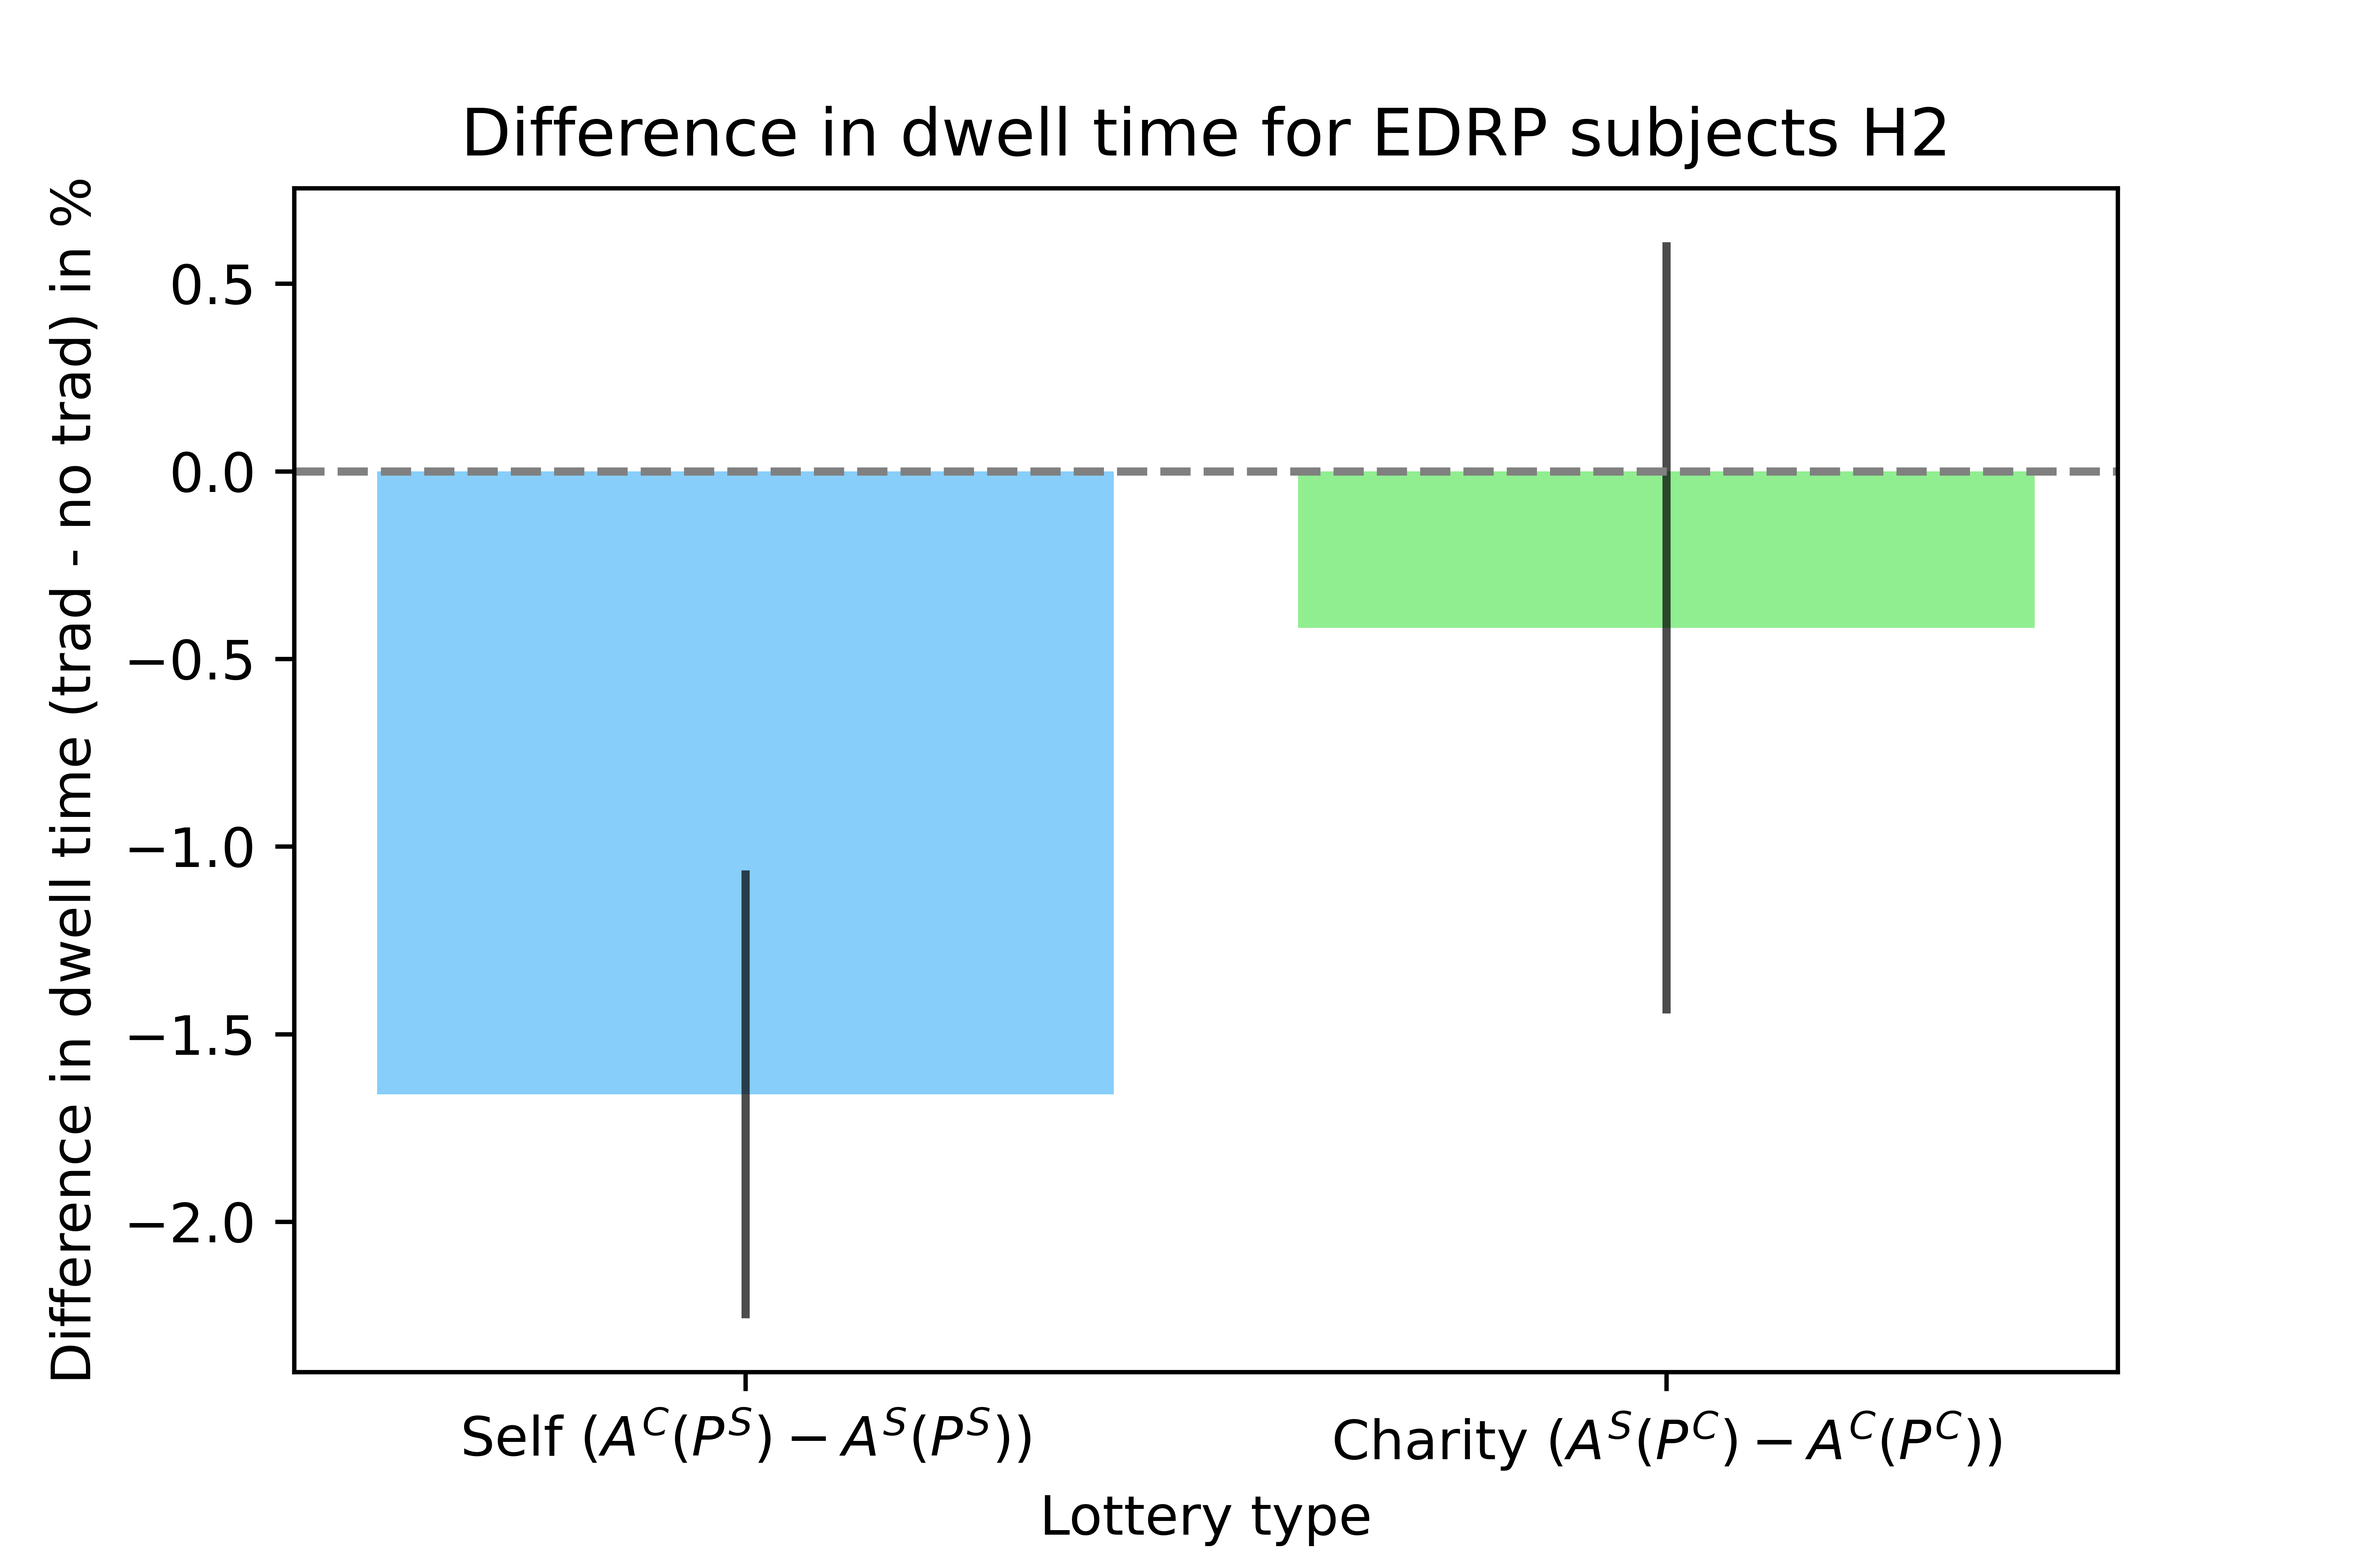
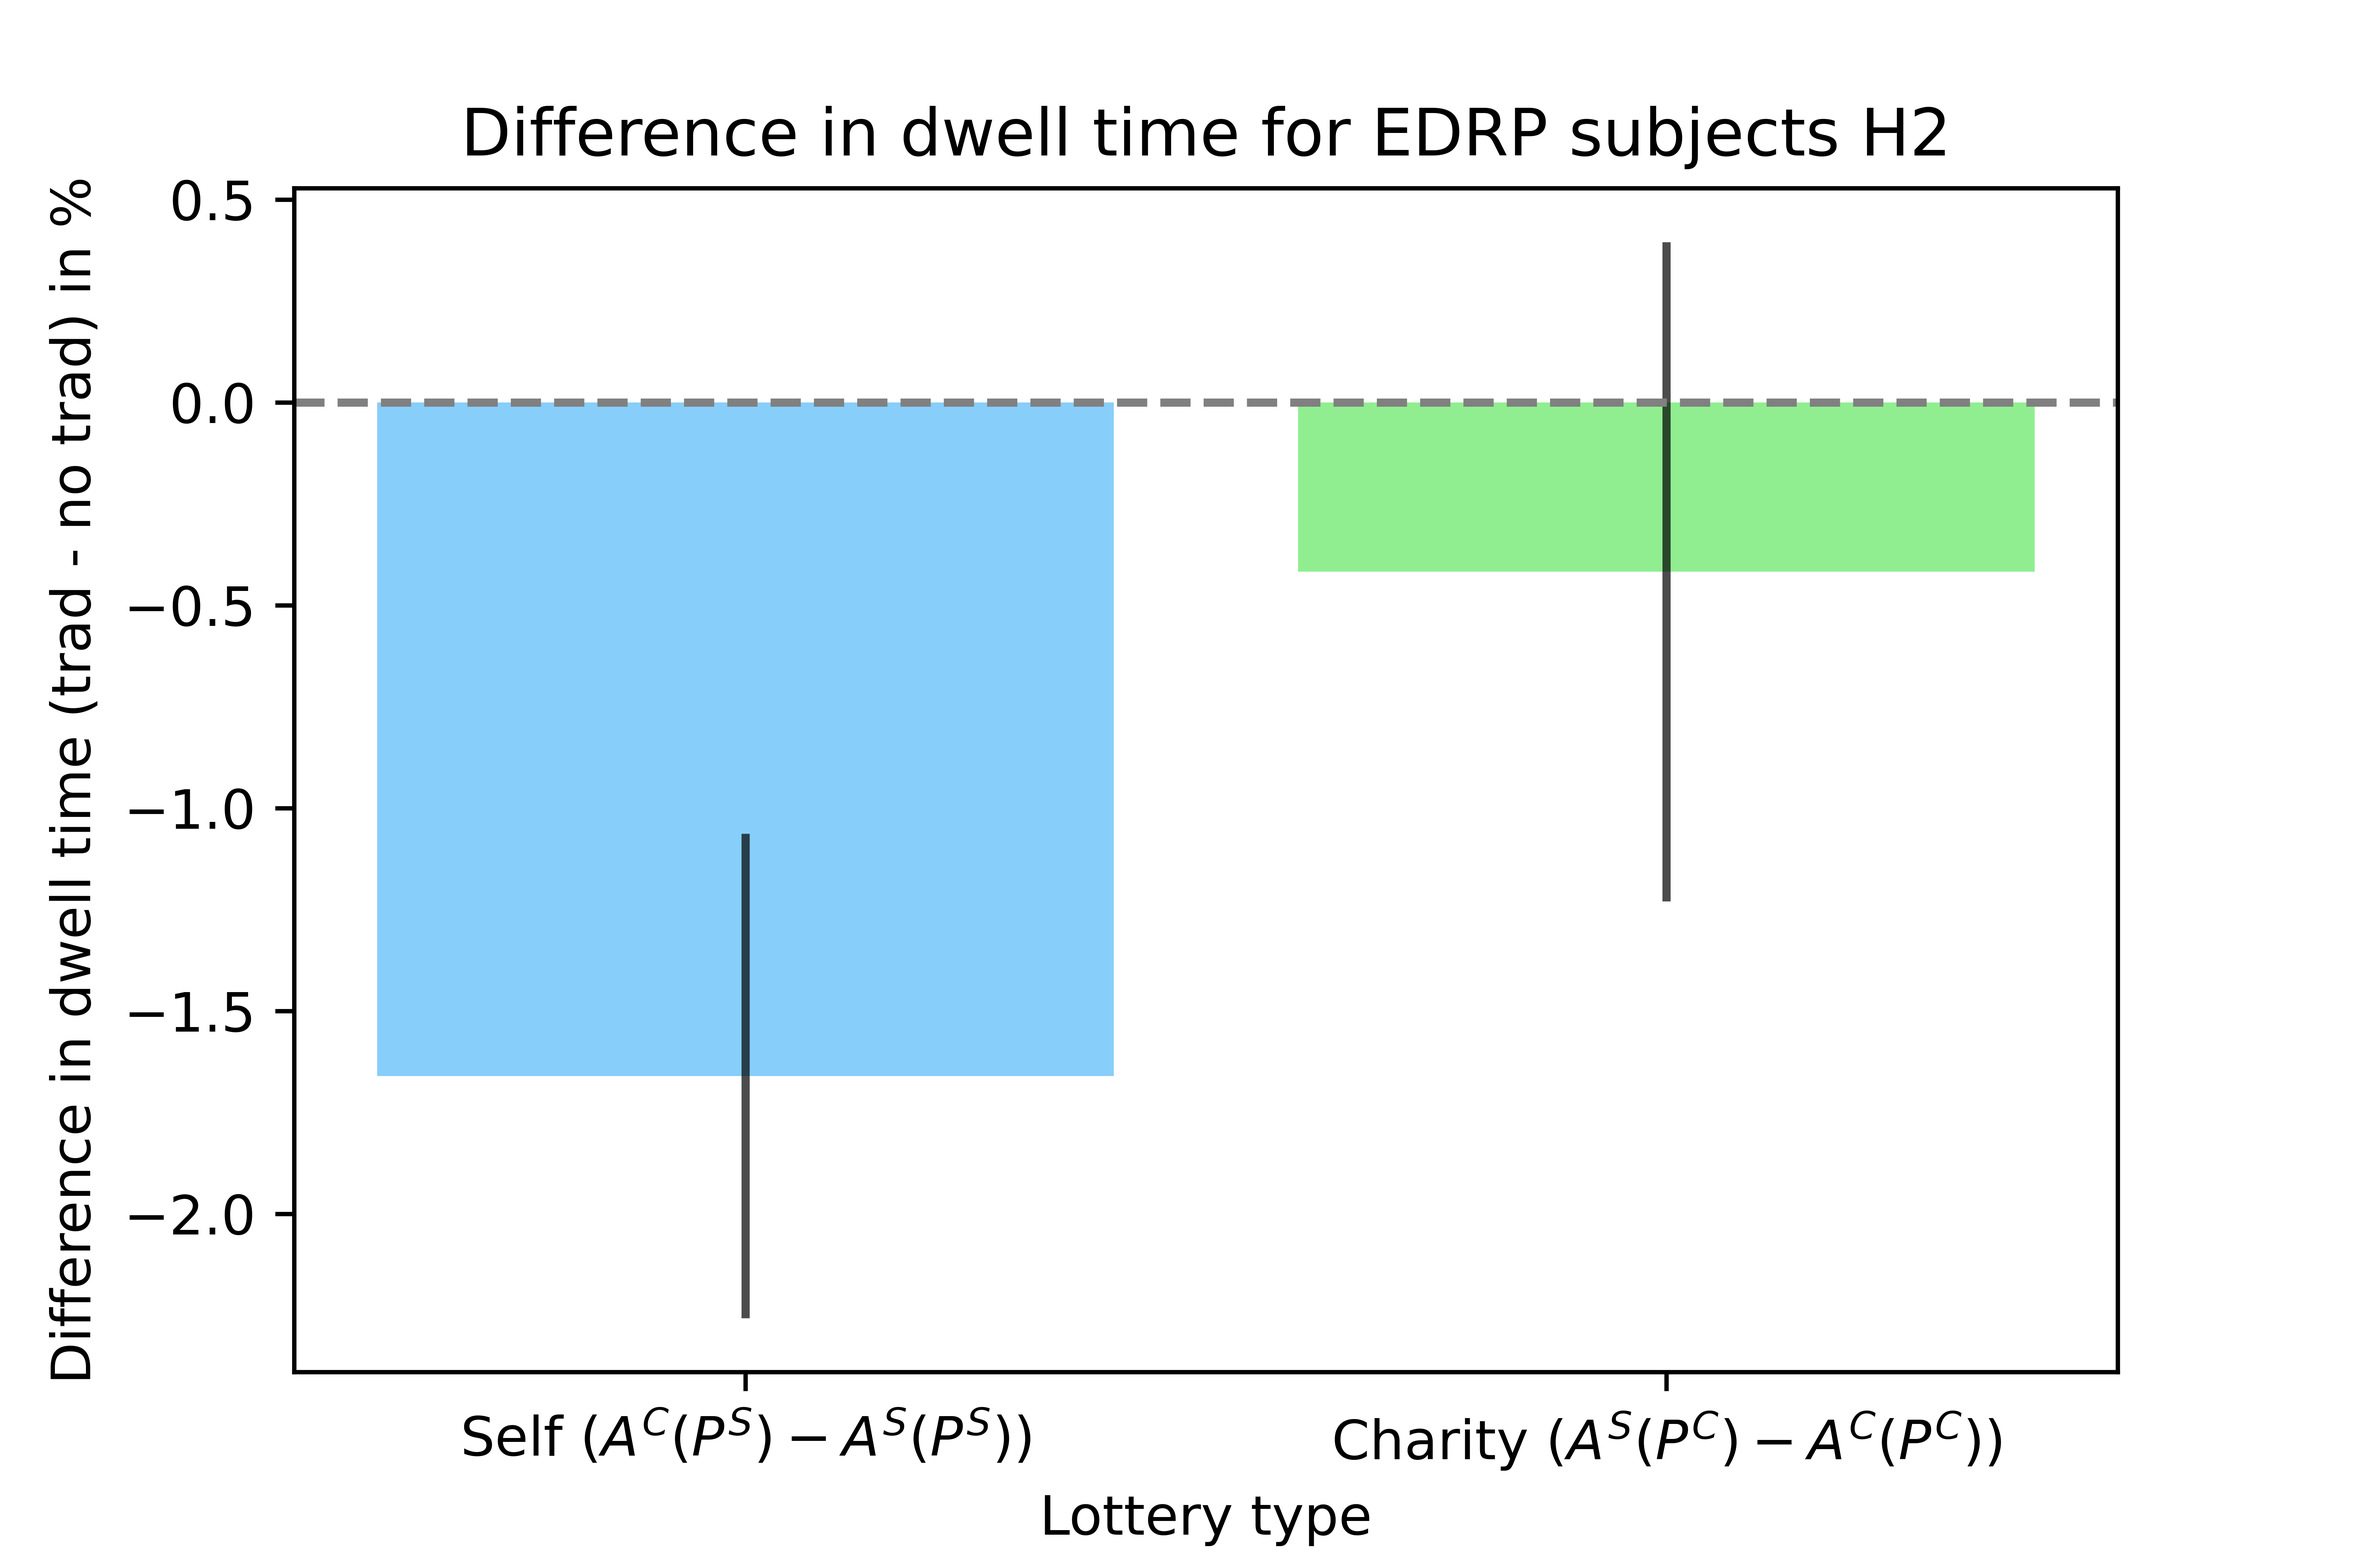
update

diff --git a/H2 Data analysis.py b/H2 Data analysis.py
@@ -330,7 +330,7 @@ plt.bar(['Self ($A^{C}(P^{S})-A^{S}(P^{S})$)', 'Charity ($A^{S}(P^{C})-A^{C}(P^{
         color = ['lightskyblue', 'lightgreen']) 
 plt.errorbar(['Self ($A^{C}(P^{S})-A^{S}(P^{S})$)', 'Charity ($A^{S}(P^{C})-A^{C}(P^{C})$)'], 
               [self_lottery_differences_attention['dwell_time_ACPS_ASPS'].mean(), charity_lottery_differences_attention['dwell_time_ASPC_ACPC'].mean()], 
-              [0.402, 0.602], ecolor = 'black', fmt='none', alpha=0.7)
+              [0.402, 0.502], ecolor = 'black', fmt='none', alpha=0.7)
 plt.axhline(y=0, color='grey', linestyle='--')
 plt.xlabel('Lottery type')
 plt.ylabel('Difference in dwell time (trad - no trad) in %')
@@ -345,7 +345,7 @@ plt.bar(['Self ($A^{C}(P^{S})-A^{S}(P^{S})$)', 'Charity ($A^{S}(P^{C})-A^{C}(P^{
         color = ['lightskyblue', 'lightgreen']) 
 plt.errorbar(['Self ($A^{C}(P^{S})-A^{S}(P^{S})$)', 'Charity ($A^{S}(P^{C})-A^{C}(P^{C})$)'], 
               [self_lottery_differences_attention_EDRP['dwell_time_ACPS_ASPS'].mean(), charity_lottery_differences_attention_EDRP['dwell_time_ASPC_ACPC'].mean()], 
-              [0.597, 1.028], ecolor = 'black', fmt='none', alpha=0.7)
+              [0.597, 0.8125], ecolor = 'black', fmt='none', alpha=0.7)
 # plt.errorbar(['Self ($Y^{C}(P^{S})-Y^{S}(P^{S})$)', 'Charity ($Y^{S}(P^{C})-Y^{C}(P^{C})$)'], 
 #               [self_lottery_differences_attention_EDRP['dwell_time_ACPS_ASPS'].mean(), charity_lottery_differences_attention_EDRP['dwell_time_ASPC_ACPC'].mean()], 
 #               [np.std(self_lottery_differences_attention_EDRP['dwell_time_ACPS_ASPS']), np.std(charity_lottery_differences_attention_EDRP['dwell_time_ASPC_ACPC'])], ecolor = 'black', fmt='none', alpha=0.7)
